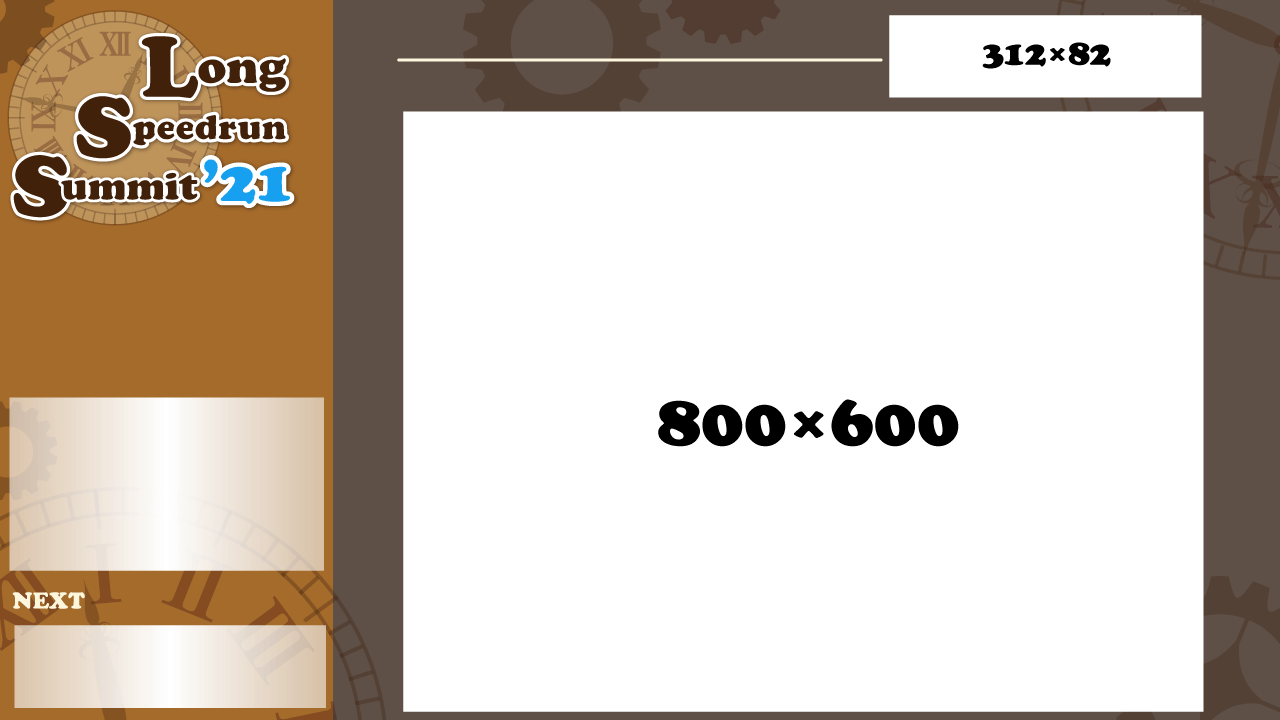
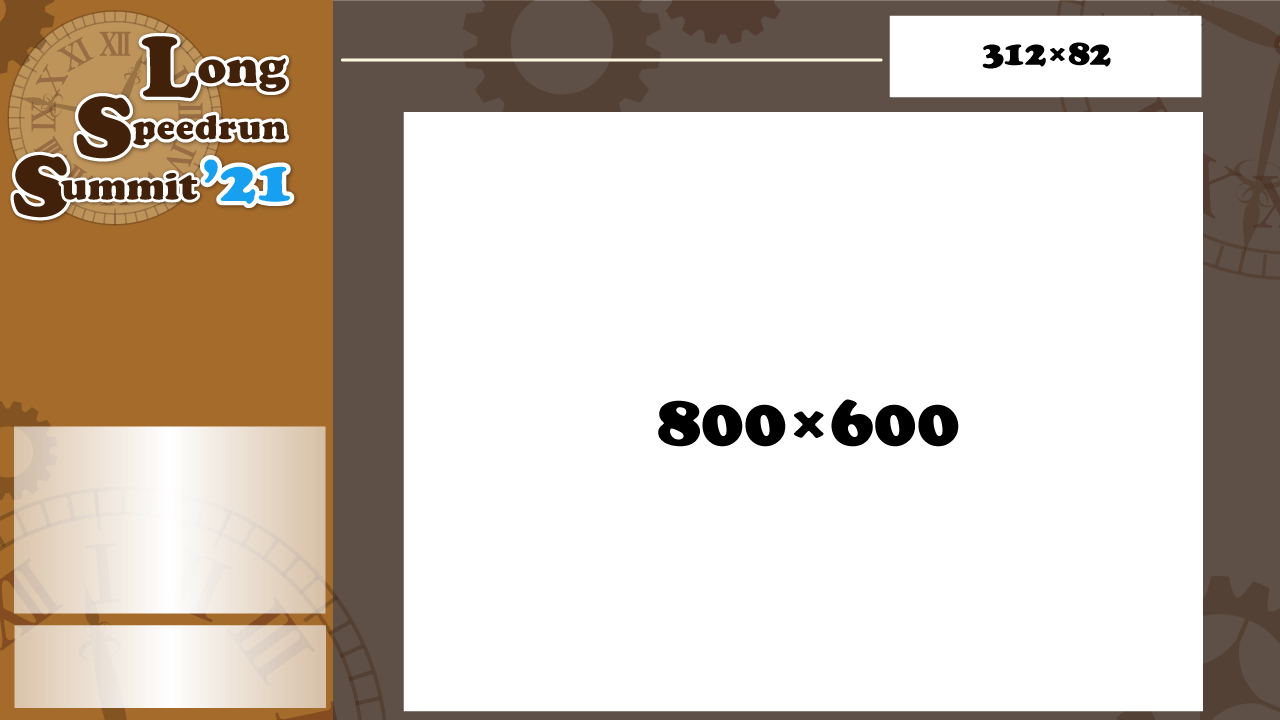
3DS,DS layout change

Changed region(s): [[0.0, 0.55, 0.2812, 0.8556], [0.2812, 0.0611, 0.3125, 0.0917]]

diff --git a/index.html b/index.html
@@ -49,6 +49,7 @@
             <p>この度はLong Speedrun Summit2021にご参加いただきありがとうございます。<br>
                 今回このイベントの為の背景を用意いたしましたので、<br>
                 こちらを利用した配信設定をしていただきますよう、よろしくお願いいたします。</p>
+            <p>※PCにて御覧ください</p>
         </div>
         <div class="row">
             <h4>共通背景</h4>
@@ -66,7 +67,7 @@
                         <img src="img/bbase_800.png">
                     </div>
                     <div class="card-content">
-                        <p><a href="./main800px.html" target="_break">800×600で配信する方向け</a></p>
+                        <p><a href="./main800px.html" target="_break">800×600（4:3）で配信する方向け</a></p>
                     </div>
                     <div class="card-action brown darken-3" onclick="copyTextToClipboard('main800px.html');M.toast({html: 'クリップボードに保存されました'})" >
                         <a onclick="copyTextToClipboard('main800px.html');M.toast({html: 'クリップボードに保存されました'})" class=" white-text">URL Copy</a>
@@ -79,13 +80,15 @@
                         <img src="img/bbase_928.png">
                     </div>
                     <div class="card-content">
-                        <p><a href="./main928px.html" target="_break">928×522で配信する方向け</a></p>
+                        <p><a href="./main928px.html" target="_break">928×522（16:9）で配信する方向け</a></p>
                     </div>
                     <div class="card-action brown darken-3" onclick="copyTextToClipboard('main928px.html');M.toast({html: 'クリップボードに保存されました'})" >
                         <a onclick="copyTextToClipboard('main928px.html');M.toast({html: 'クリップボードに保存されました'})" class=" white-text">URL Copy</a>
                     </div>
                 </div>
             </div>
+        </div>
+        <div class="row">
             <div class="col s4 m4">
                 <div class="card ">
                     <div class="card-image">
@@ -99,16 +102,29 @@
                     </div>
                 </div>
             </div>
+            <div class="col s4 m4">
+                <div class="card ">
+                    <div class="card-image">
+                        <img src="img/bbase_3ds.png">
+                    </div>
+                    <div class="card-content">
+                        <p><a href="./main_3ds.html" target="_break">3DSで配信する方向け</a></p>
+                    </div>
+                    <div class="card-action brown darken-3" onclick="copyTextToClipboard('main_3ds.html');M.toast({html: 'クリップボードに保存されました'})" >
+                        <a onclick="copyTextToClipboard('main_3ds.html');M.toast({html: 'クリップボードに保存されました'})" class=" white-text">URL Copy</a>
+                    </div>
+                </div>
+            </div>
         </div>
         <div class="row">
             <h4>OBSでの設定</h4>
         </div>
         <div class="row">
             <div class="col s4 m4">
-                <img src="img/obs1.png" data-caption="OBS画面中央下部のソース部分のプラスボタンを押下" alt="obs1" srcset="" class="materialboxed"width="300">
+                <img src="img/obs1.png" data-caption="OBS画面中央下部のソース部分のプラスボタンをクリック" alt="obs1" srcset="" class="materialboxed"width="300">
             </div>
             <div class="col s6 m6">
-                OBS画面中央下部のソース部分のプラスボタンを押下する。
+                OBS画面中央下部のソース部分のプラスボタンをクリックする。
             </div>
         </div>
         <div class="row">
@@ -121,10 +137,10 @@
         </div> 
         <div class="row">
             <div class="col s4 m4">
-                <img src="img/obs3.png" data-caption="新規作成でOKボタンを押下" alt="obs3" srcset="" class="materialboxed"width="300">
+                <img src="img/obs3.png" data-caption="新規作成でOKボタンをクリック" alt="obs3" srcset="" class="materialboxed"width="300">
             </div>
             <div class="col s6 m6">
-                新規作成が選択されているのを確認し、適当な名前をつけてOKボタンを押下する。（名前はデフォルトのままでOKです）
+                新規作成が選択されているのを確認し、適当な名前をつけてOKボタンをクリックする。（名前はデフォルトのままでOKです）
             </div>
         </div> 
         <div class="row">
@@ -137,18 +153,18 @@
         </div> 
         <div class="row">
             <div class="col s4 m4">
-                <img src="img/obs5.png" data-caption="幅には1280、高さには720を入力し、OKを押下" alt="obs5" srcset="" class="materialboxed"width="300">
+                <img src="img/obs5.png" data-caption="幅には1280、高さには720を入力し、OKをクリック" alt="obs5" srcset="" class="materialboxed"width="300">
             </div>
             <div class="col s6 m6">
-                画面の幅と高さを入力する。<span class="under" tooltip="どの画面サイズも共通です">幅には1280、高さには720を入力し</span>、OKを押下する。
+                画面の幅と高さを入力する。<span class="under" tooltip="どの画面サイズも共通です">幅には1280、高さには720を入力し</span>、OKをクリックする。
             </div>
         </div> 
         <div class="row">
             <div class="col s4 m4">
-                <img src="img/obs6.png" data-caption="再読み込みボタン押下" alt="obs6" srcset="" class="materialboxed"width="300">
+                <img src="img/obs6.png" data-caption="再読み込みボタンクリック" alt="obs6" srcset="" class="materialboxed"width="300">
             </div>
             <div class="col s6 m6">
-                追加したソースを選択すると再読み込みボタンが表示されるので、<p class=" light-blue-text darken-4" style="font-weight:bolder">配信開始前に必ず再読み込みボタンを押下する。</p>
+                追加したソースを選択すると再読み込みボタンが表示されるので、<p class=" light-blue-text darken-4" style="font-weight:bolder">配信開始前に必ず再読み込みボタンをクリックする。</p>
             </div>
         </div> 
 

diff --git a/main_3ds.html b/main_3ds.html
@@ -3,8 +3,11 @@
     <meta charset="UTF-8">
     <meta http-equiv="X-UA-Compatible" content="IE=edge">
     <meta name="viewport" content="width=device-width, initial-scale=1.0">
-    <title>LSS2021 -4:3-</title>
-    <link rel="stylesheet" type="text/css" href="./css/base800.css">
+    <title>LSS2021 -3DS-</title>
+    <link rel="preconnect" href="https://fonts.googleapis.com">
+    <link rel="preconnect" href="https://fonts.gstatic.com" crossorigin>
+    <link href="https://fonts.googleapis.com/css2?family=M+PLUS+Rounded+1c&display=swap" rel="stylesheet">
+    <link rel="stylesheet" type="text/css" href="./css/base_3ds.css">
     <link rel="stylesheet" href="./css/jquery.simpleTicker.css">
     <link rel="stylesheet" type="text/css" href="./css/style.css">
     <script src="http://ajax.googleapis.com/ajax/libs/jquery/1.10.2/jquery.min.js"></script>
@@ -23,7 +26,7 @@
         div.ticker{width: calc(100% - 20px);}
     </style>
 </head>
-<body class="w800">
+<body class="3ds">
     <div class="main">
         <div class="infoCol">
             <div class="game">

diff --git a/main928px.html b/main928px.html
@@ -3,7 +3,7 @@
     <meta charset="UTF-8">
     <meta http-equiv="X-UA-Compatible" content="IE=edge">
     <meta name="viewport" content="width=device-width, initial-scale=1.0">
-    <title>Document</title>
+    <title>LSS2021 -16:9-</title>
     <link rel="preconnect" href="https://fonts.googleapis.com">
     <link rel="preconnect" href="https://fonts.gstatic.com" crossorigin>
     <link href="https://fonts.googleapis.com/css2?family=M+PLUS+Rounded+1c&display=swap" rel="stylesheet">

diff --git a/css/base_3ds.css b/css/base_3ds.css
@@ -1,0 +1,11 @@
+body{
+    background-image: url("../img/bbase_3ds.png") ;
+    background-repeat: no-repeat;
+    /*background-position: left top;*/
+    width: 1280px;
+    /*height: 720px;*/
+}
+
+.game{
+    top: 520px !important;
+}
